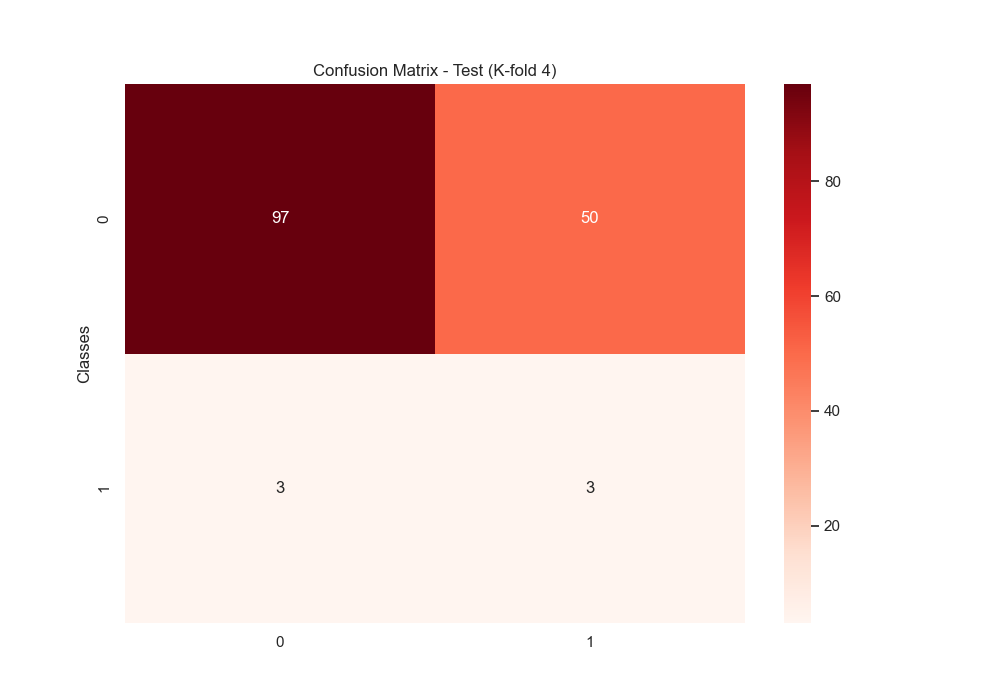
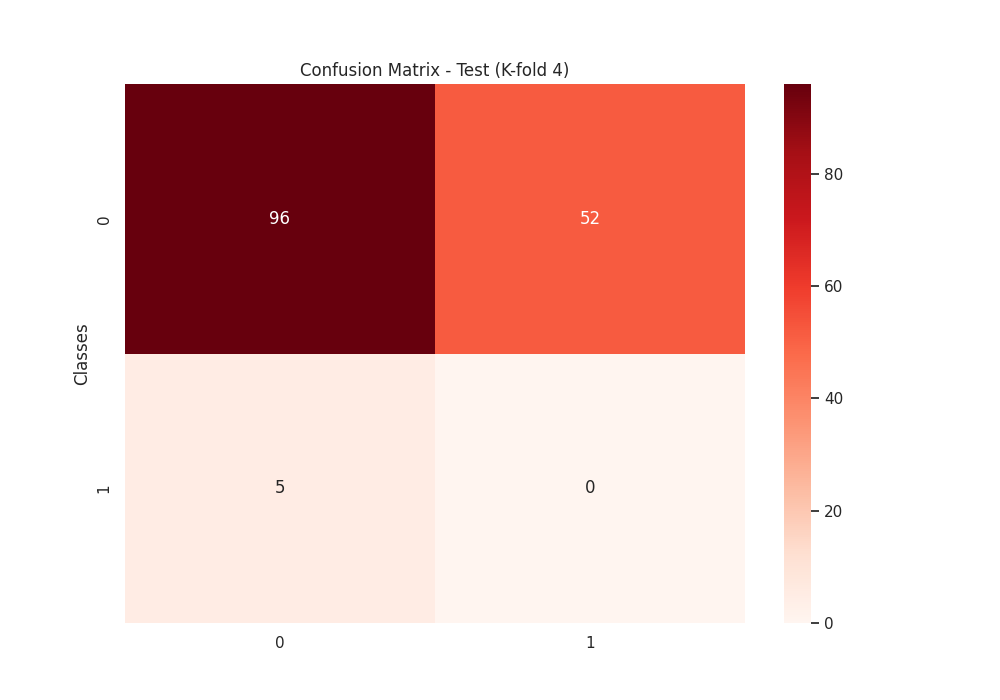
Updated for bayesian parameters

diff --git a/app/controller/training.py b/app/controller/training.py
@@ -9,6 +9,21 @@ import base64
 router = APIRouter()
 
 
+class BayesianConfig(BaseModel):
+    distribution_type: str = Field(
+        default="normal", description="Type of prior distribution"
+    )
+    mean: float = Field(default=0, description="Mean of the distribution")
+    sigma: float = Field(default=1, description="Standard deviation or scale parameter")
+    alpha: float = Field(
+        default=0.1, description="Alpha parameter for the distribution"
+    )
+    beta: float = Field(default=0.1, description="Beta parameter for the distribution")
+    lambdaPar: float = Field(
+        default=0.1, description="Lambda parameter for the distribution"
+    )
+
+
 class NeuralNetworkParameters(BaseModel):
     alpha: float = Field(default=0.001, description="Learning rate")
     epoch: int = Field(default=20, description="Number of training epochs")
@@ -23,6 +38,9 @@ class NeuralNetworkParameters(BaseModel):
         default=None, description="External activation function"
     )
     useBayesian: bool = Field(default=False, description="Use Bayesian neural network")
+    bayesian_config: Optional[BayesianConfig] = Field(
+        default=None, description="Configuration for Bayesian priors"
+    )
     save_mod: str = Field(default="ModiR", description="Model save name")
     pred_hot: bool = Field(default=True, description="Use one-hot prediction")
     test_size: float = Field(default=0.2, description="Test set ratio")
@@ -62,6 +80,15 @@ def save_parameters_to_conf(params: dict):
                     formatted_value = f'[{", ".join(layer_items)}]'
                 else:
                     formatted_value = str(value).replace("'", "")
+            elif isinstance(value, dict):
+                # Handle nested dictionaries (like bayesian_config)
+                formatted_items = []
+                for k, v in value.items():
+                    if isinstance(v, str):
+                        formatted_items.append(f'"{k}": "{v}"')
+                    else:
+                        formatted_items.append(f'"{k}": {v}')
+                formatted_value = "{" + ", ".join(formatted_items) + "}"
             else:
                 formatted_value = str(value)
 
@@ -198,14 +225,37 @@ async def train_rna(params: NeuralNetworkParameters):
     También se guardan en el archivo de configuración para uso futuro.
     """
     try:
-        # Convert Pydantic model to dictionary and rename useBayesian to Bay to match API
+        # Convert Pydantic model to dictionary
         train_params = params.model_dump()
+
+        # Extract bayesian config if available
+        bayesian_config = train_params.pop("bayesian_config", None)
 
         # Rename parameters for the train function
         train_params["Bay"] = train_params.pop("useBayesian")
         train_params["Kfold"] = train_params.pop("numFolds")
 
-        save_parameters_to_conf(train_params)
+        # Save the full config (including bayesian_config) to the conf file
+        save_parameters = train_params.copy()
+        if bayesian_config:
+            save_parameters["bayesian_config"] = bayesian_config
+        save_parameters_to_conf(save_parameters)
+
+        # Add individual bayesian parameters to train_params if bayesian_config exists
+        if bayesian_config:
+            # Convert the BayesianConfig model to a dictionary if it's not already
+            if not isinstance(bayesian_config, dict):
+                bayesian_config = bayesian_config.dict()
+
+            # Add each parameter individually
+            train_params["distribution_type"] = bayesian_config.get(
+                "distribution_type", "normal"
+            )
+            train_params["mean"] = bayesian_config.get("mean", 0.0)
+            train_params["sigma"] = bayesian_config.get("sigma", 1.1)
+            train_params["alpha"] = bayesian_config.get("alpha", 0.1)
+            train_params["beta"] = bayesian_config.get("beta", 0.1)
+            train_params["lambdaPar"] = bayesian_config.get("lambdaPar", 0.1)
 
         # Call the train function with the parameters (including layers)
         train(**train_params)

diff --git a/app/bnn/RNA.py b/app/bnn/RNA.py
@@ -146,6 +146,7 @@ def train(
     cv=True,
     Kfold=5,
     layers=None,
+    **kwargs,
 ):
     """
     Entrenamiento de la red neuronal
